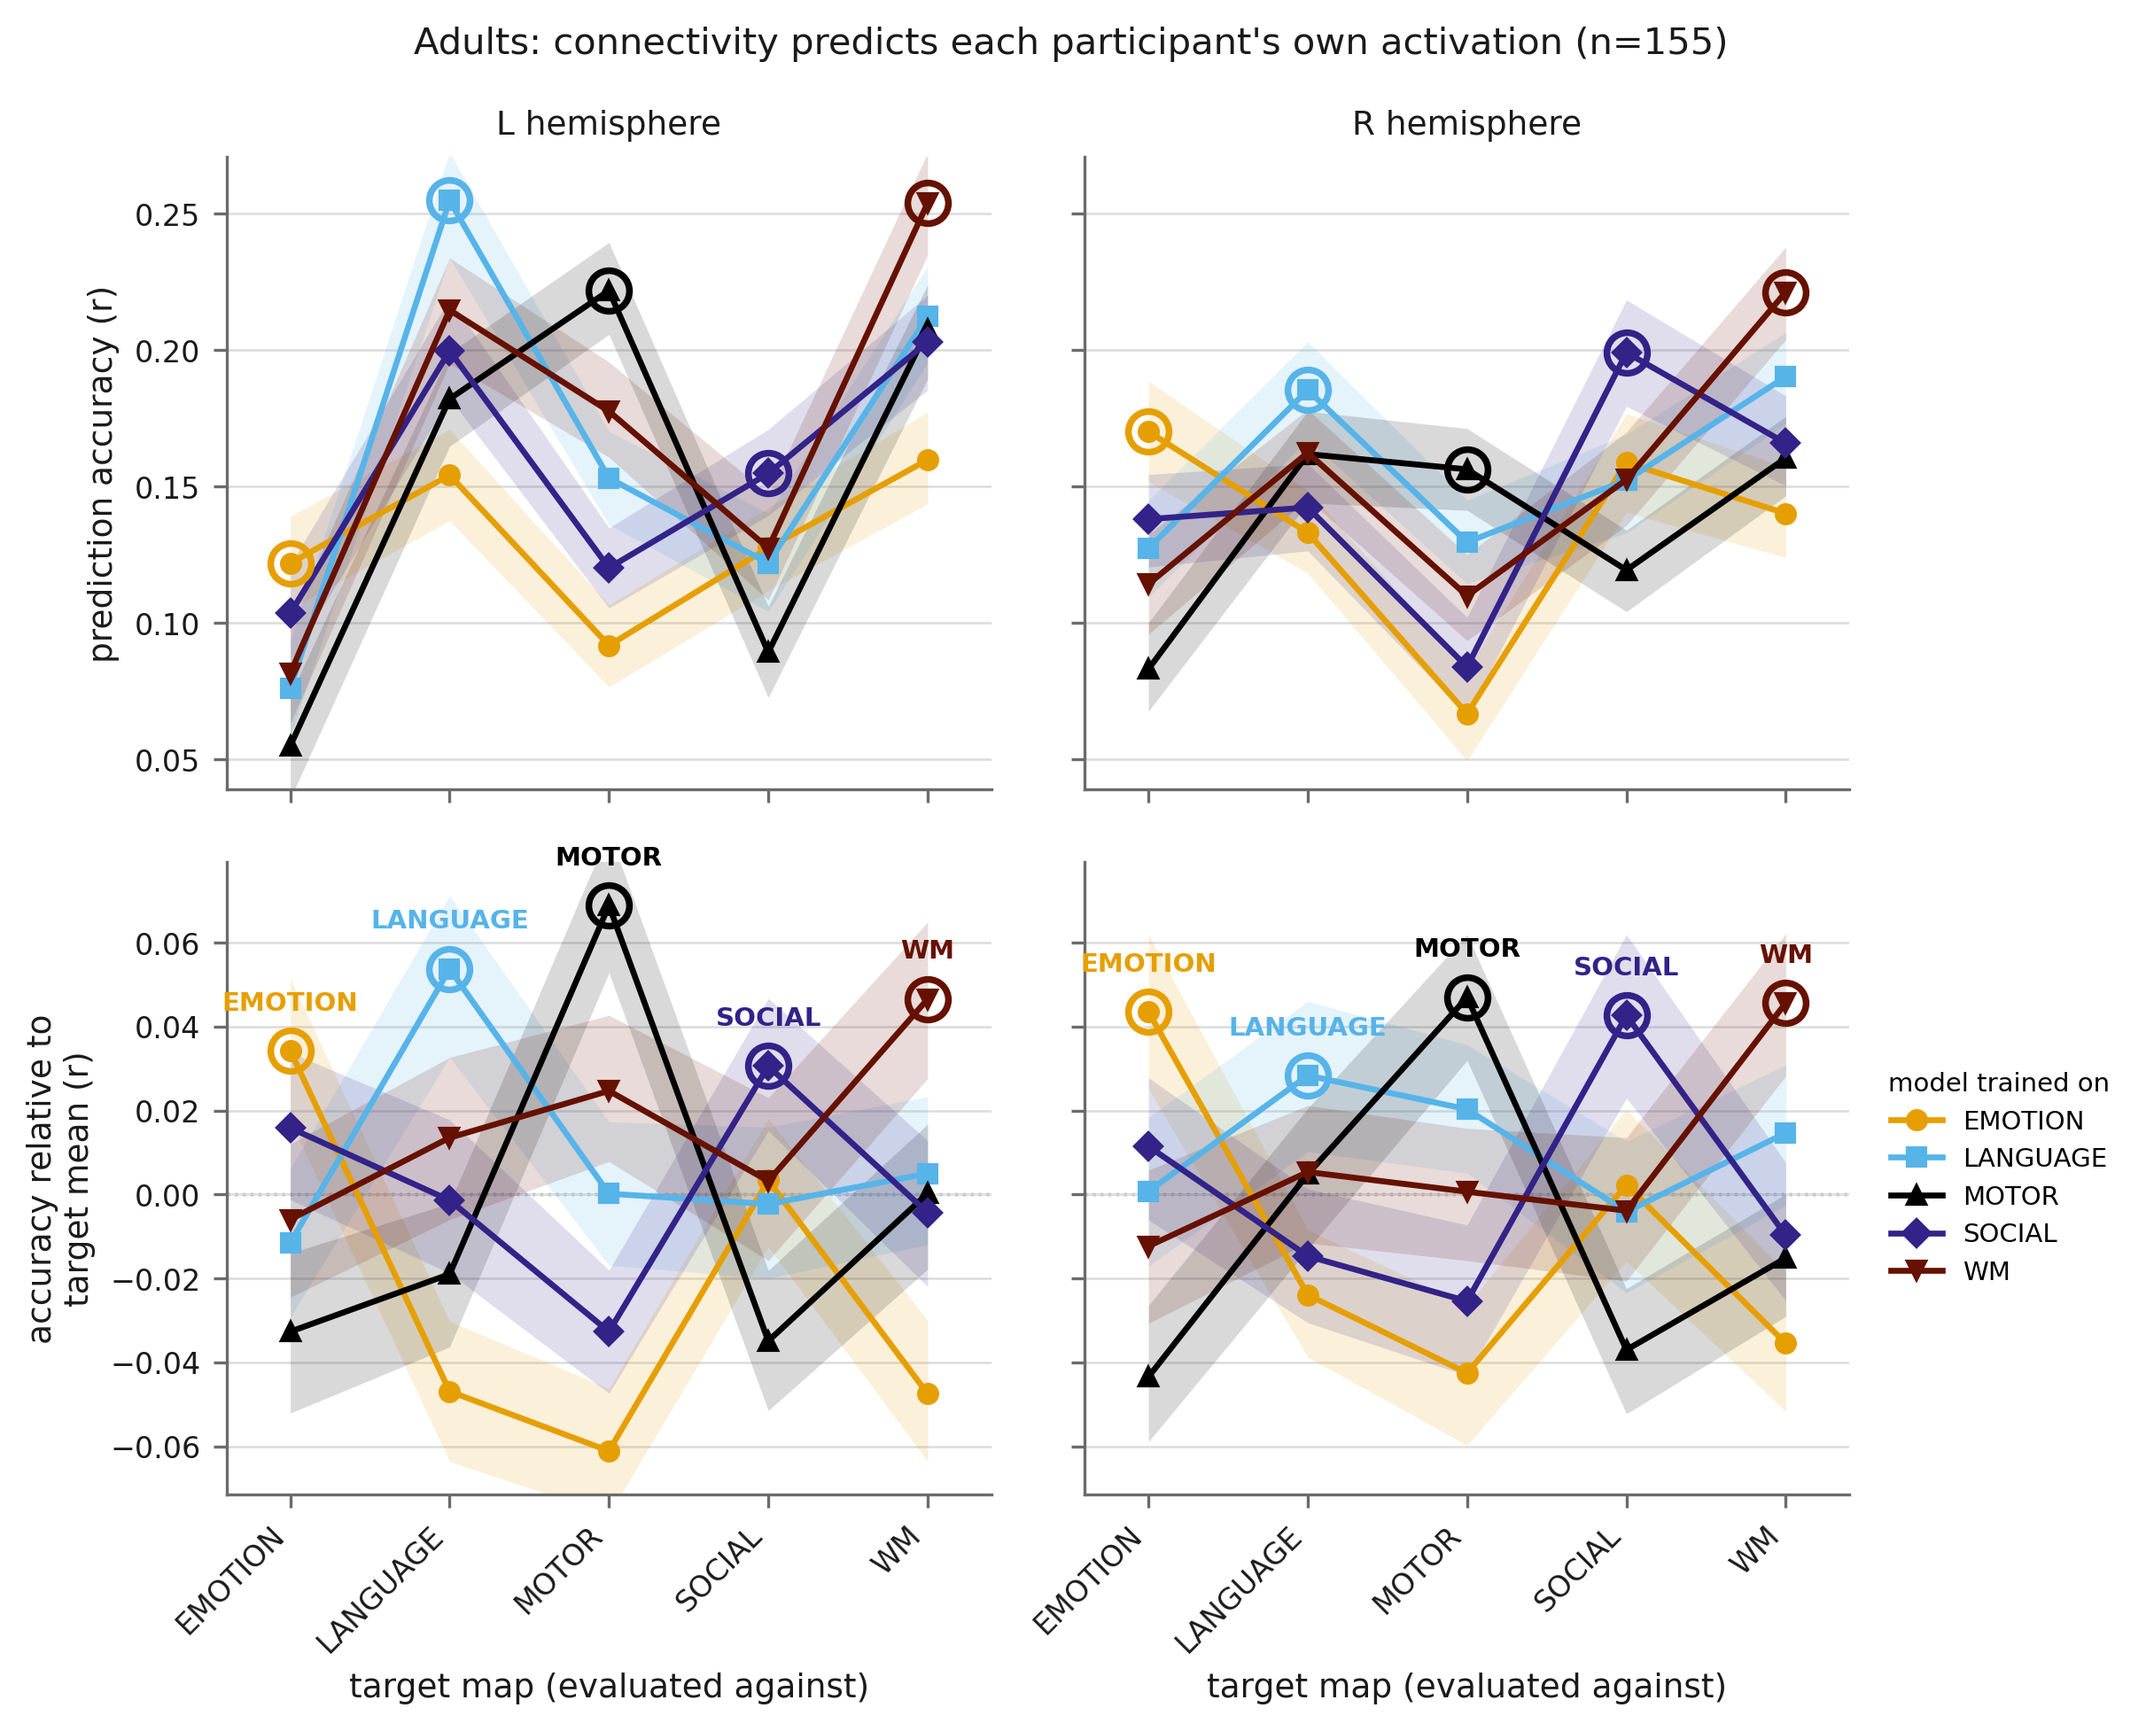
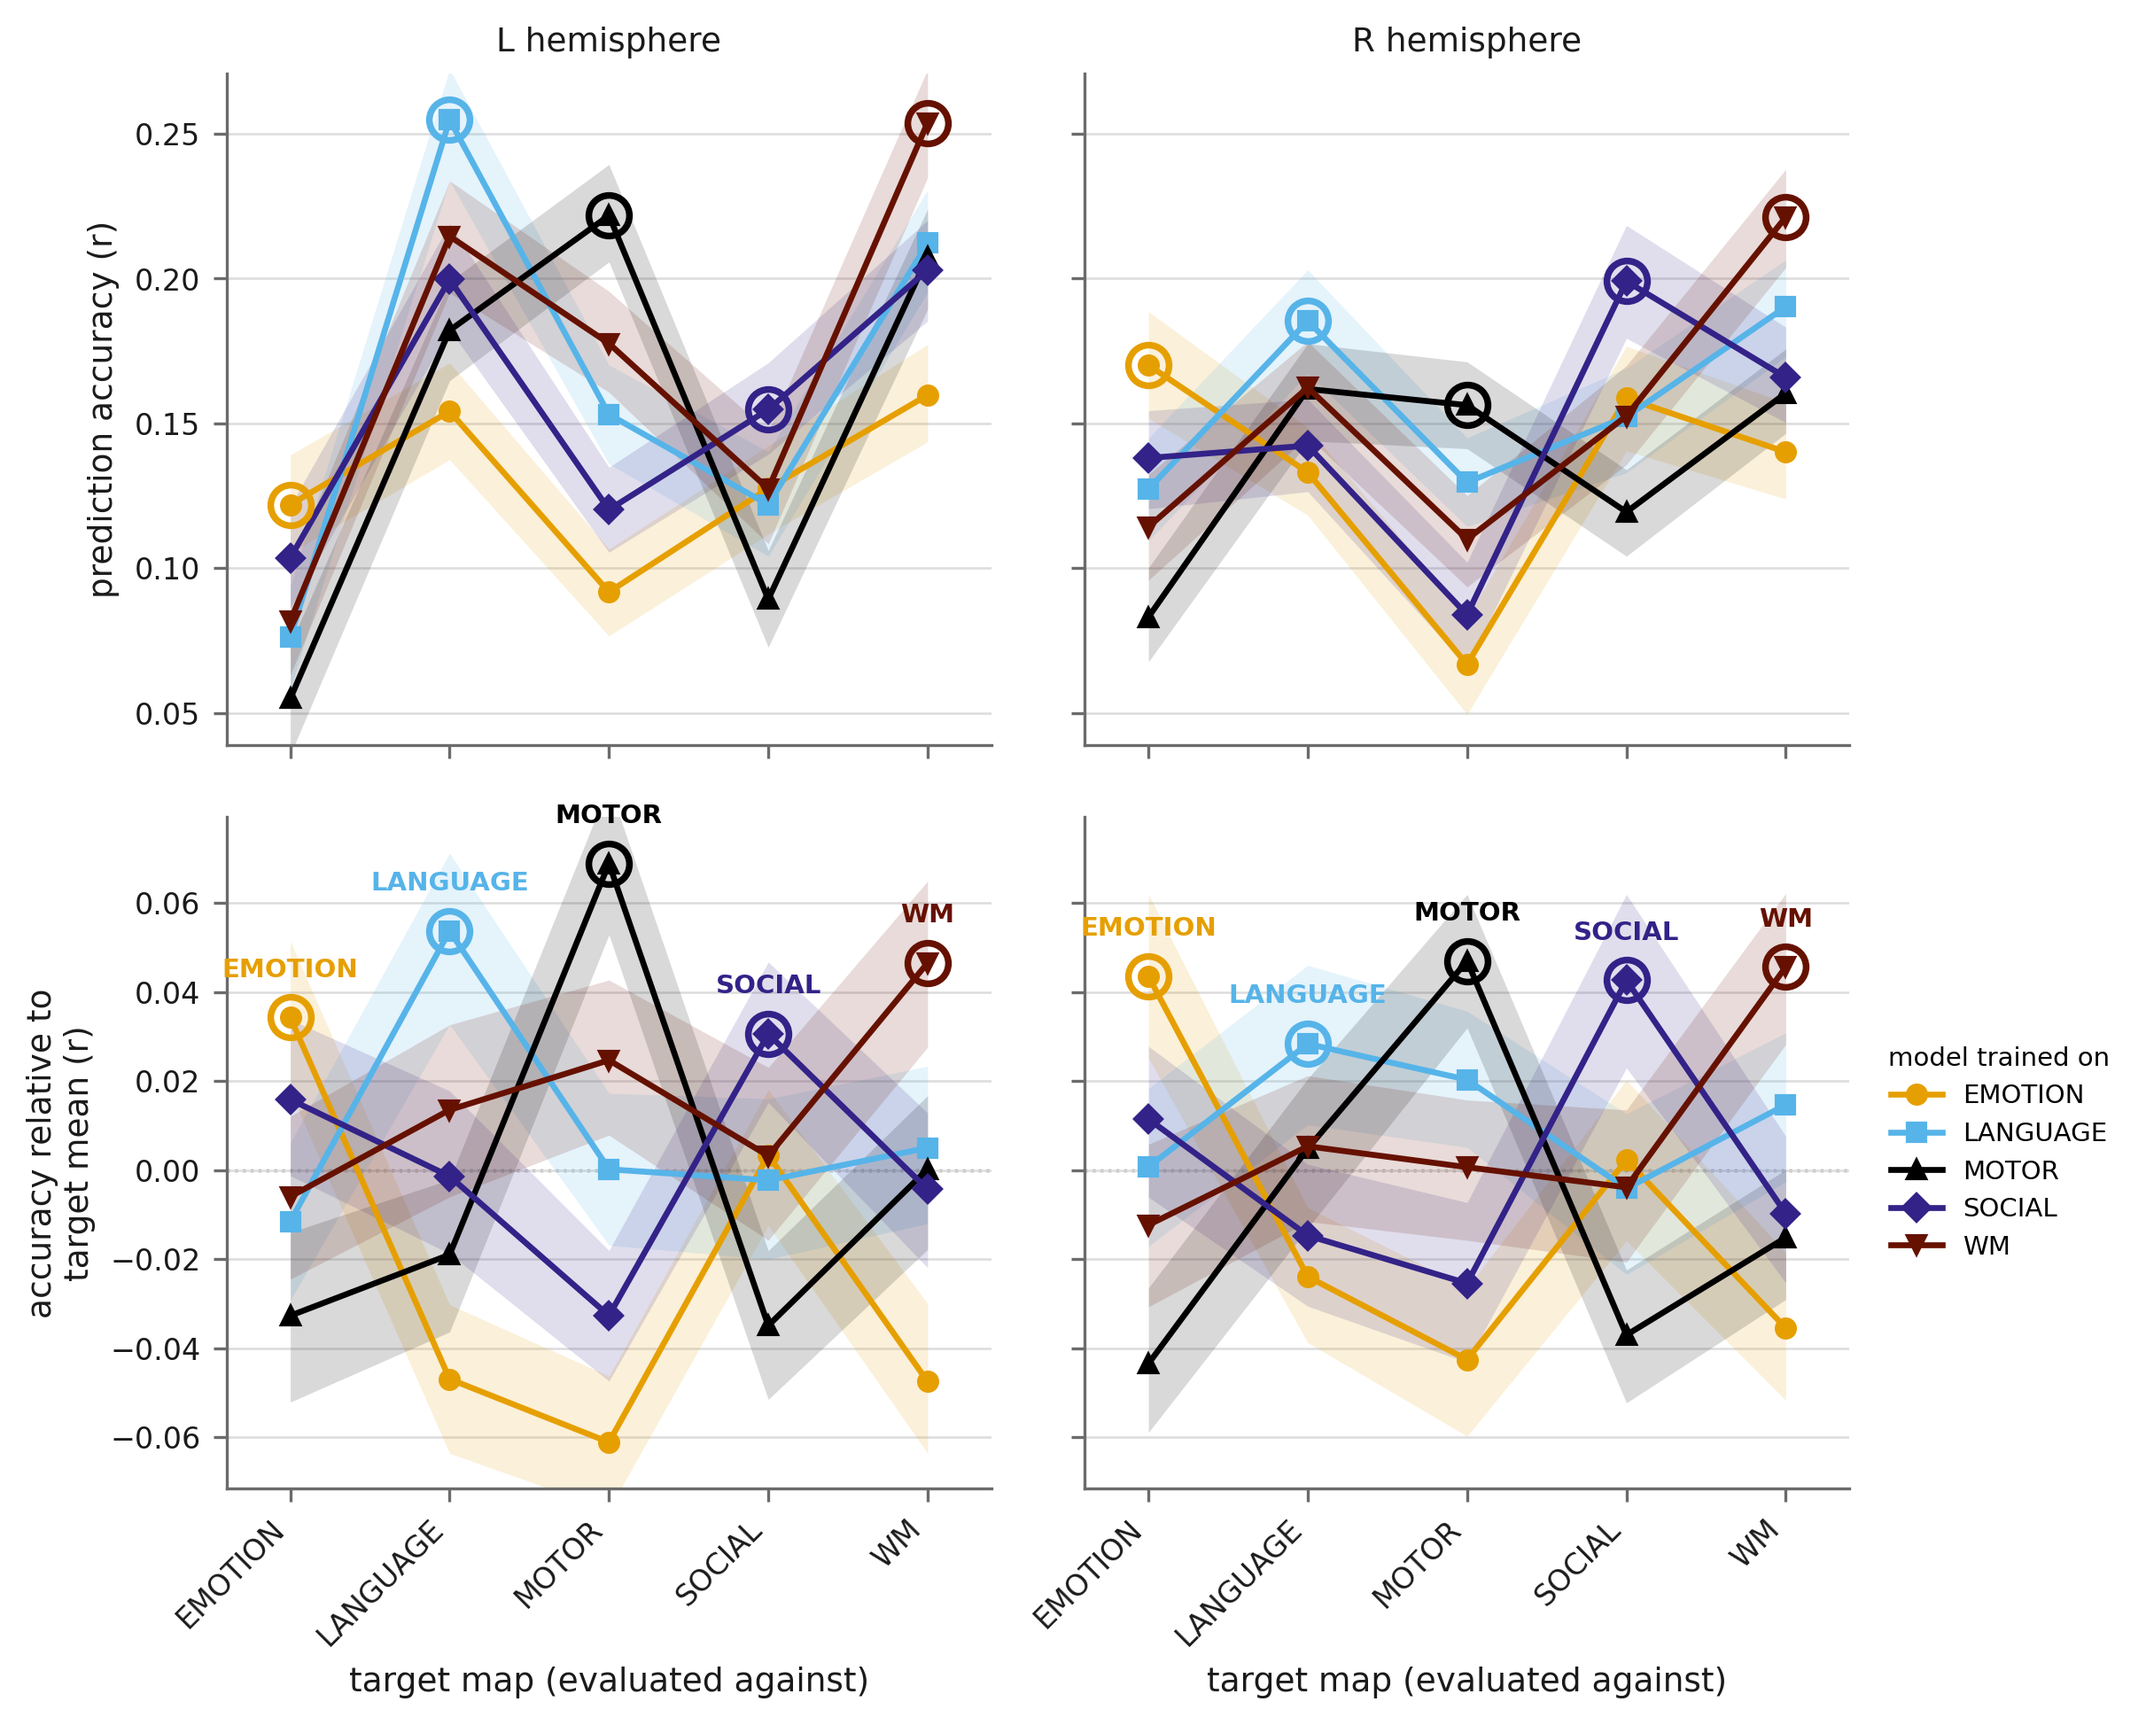
Drop in-figure titles; consolidate the spatial null into one grid
`sti figures` applies a single --title to every figure it writes, so the
specificity panel of Figs. 2, 3 and S7 carried the accuracy panel's title and
read "connectivity predicts each participant's own activation" above a figure
showing task specificity. Rather than correct the titles, the manuscript figures
are now generated without them: each panel's meaning belongs in its caption, and
a title inside the image duplicates it and can drift out of step, which is
exactly what happened. --title remains for exploratory use.

The spatial null is now a single 5x2 grid rather than ten separate histograms.
Ten insertions would be unwieldy in a manuscript, and the grid shows at once that
every observed value sits outside its null. Annotations are placed on the side
away from the observed line, which previously overlapped it.

Also fixes plot_specificity_panel, which indexed axs[1] unconditionally and so
raised IndexError when sliced to a single hemisphere.

diff --git a/src/sti/plotting.py b/src/sti/plotting.py
@@ -357,8 +357,8 @@ def plot_specificity_panel(results: pd.DataFrame, *, title: str = "", tasks=None
     """
     plt = _mpl()
     hemis = sorted(results.hemi.unique())
-    fig, axs = plt.subplots(2, len(hemis), figsize=(4.1 * len(hemis), 6.6))
-    axs = np.atleast_2d(axs)
+    fig, axs = plt.subplots(2, len(hemis), figsize=(4.1 * len(hemis), 6.6), squeeze=False)
+    axs = np.asarray(axs)   # always 2-D: squeeze=False keeps a single hemisphere valid
 
     plot_specificity_lines(results, tasks=tasks, centre=False, axes=axs[0],
                            legend=False, standalone=False)
@@ -588,6 +588,52 @@ def plot_maturity_panel(comparison: pd.DataFrame, *, title: str = "",
         for ax in row:
             ax.set_xlim(lo, hi)
     axs[0][-1].legend(fontsize=8, frameon=False, loc="lower right")
+    if title:
+        fig.suptitle(title, fontsize=10, color=INK)
+    fig.tight_layout()
+    return fig
+
+
+def plot_spatial_null_grid(results: pd.DataFrame, nulls, *, title: str = ""):
+    """All task-by-hemisphere spatial nulls in one figure (Fig. S8).
+
+    Ten separate histograms are unwieldy in a manuscript; a grid lets the reader
+    see at once that every observed value sits outside its null.
+    """
+    plt = _mpl()
+    tasks = sorted(results.task.unique())
+    hemis = sorted(results.hemi.unique())
+    fig, axs = plt.subplots(len(tasks), len(hemis),
+                            figsize=(3.4 * len(hemis), 1.55 * len(tasks)),
+                            squeeze=False, sharex=True)
+    for i, task in enumerate(tasks):
+        for j, hemi in enumerate(hemis):
+            ax = axs[i][j]
+            key = f"{task}__{hemi}"
+            row = results[(results.task == task) & (results.hemi == hemi)]
+            if key not in nulls or row.empty:
+                ax.axis("off")
+                continue
+            r = row.iloc[0]
+            ax.hist(nulls[key], bins=36, color="#c9d9e8", edgecolor="white", linewidth=0.3)
+            ax.axvline(r.observed_r, color=PALETTE[4], lw=1.8)
+            # label on the side away from the observed line, so they never collide
+            lo, hi = ax.get_xlim()
+            on_right = (r.observed_r - lo) / (hi - lo) > 0.55
+            ax.text(0.03 if on_right else 0.97, 0.88,
+                    f"r = {r.observed_r:.2f}\np = {r.p_spin:.3f}",
+                    transform=ax.transAxes, ha="left" if on_right else "right",
+                    va="top", fontsize=6.5, color=INK)
+            if j == 0:
+                ax.set_ylabel(task.replace("tfMRI_", ""), fontsize=8, color=INK,
+                              rotation=0, ha="right", va="center")
+            if i == 0:
+                ax.set_title(f"{hemi} hemisphere", fontsize=9, color=INK)
+            ax.set_yticks([])
+            ax.xaxis.grid(True, color=GRID, lw=0.5)
+            _style(ax)
+    for ax in axs[-1]:
+        ax.set_xlabel("prediction accuracy (r)", fontsize=8, color=INK)
     if title:
         fig.suptitle(title, fontsize=10, color=INK)
     fig.tight_layout()

diff --git a/figures/README.md b/figures/README.md
@@ -25,7 +25,7 @@ produce.
 | Fig. S5 | DLPFC parcel activation profiles | `sti contrasts --figures` | `manuscript/S5_parcel_profiles.png` |
 | Fig. S6 | Hyperparameter grid | `sti hyperparams` → `plot_hyperparameter_grid` | `manuscript/S6_hyperparameter_grid.png` |
 | Fig. S7 | Adult, group-average map | `sti adult-average` → `sti figures` | `manuscript/S7_adult_group_average_*` |
-| Fig. S8 | Spatial null | `sti spatial-null --figures` | `manuscript/S8_spatial_null_*.png` (10) |
+| Fig. S8 | Spatial null | `sti spatial-null` → `plot_spatial_null_grid` | `manuscript/S8_spatial_null.png` |
 | Fig. S9 | Accuracy vs age at scan | `sti scan-age --figures` | `manuscript/S9_scan_age.png` |
 | Table S1 | The 26 DLPFC parcels | `pipelines/02_rois/make_table_s1.py` | `data/results/table_S1_*.tsv` |
 
@@ -48,6 +48,15 @@ analysis actually uses. So neither is the figure the SI describes.
 restructure (`matrix_*.png`). They were produced by `legacy/classifier_check_res.py`
 from the 183-neonate analysis and are **superseded** by the `neonatal_N325_*`
 figures. Kept for comparison with the current manuscript draft; do not reuse.
+
+## No titles inside the figures
+
+The figures carry no super-titles. Each panel's meaning belongs in its caption,
+and a title inside the image duplicates it and can drift out of step — which is
+what happened when one `--title` was applied to both the accuracy and the
+specificity figure, leaving the specificity panel labelled "connectivity predicts
+each participant's own activation". `sti figures --title` still exists for
+exploratory use; leave it unset for anything going into the manuscript.
 
 ## Naming
 
